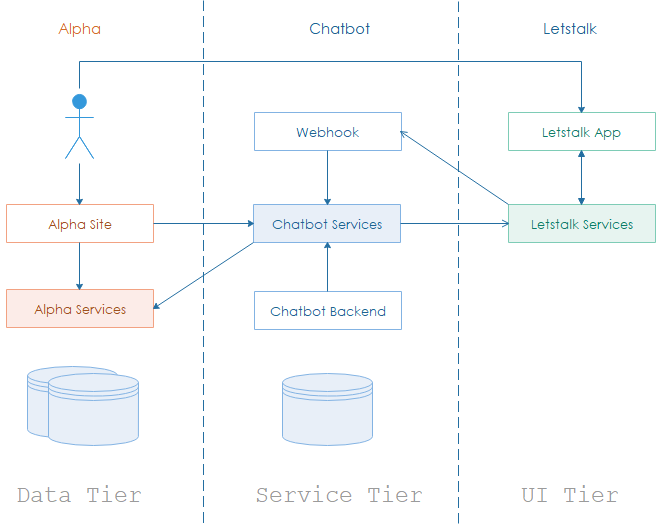
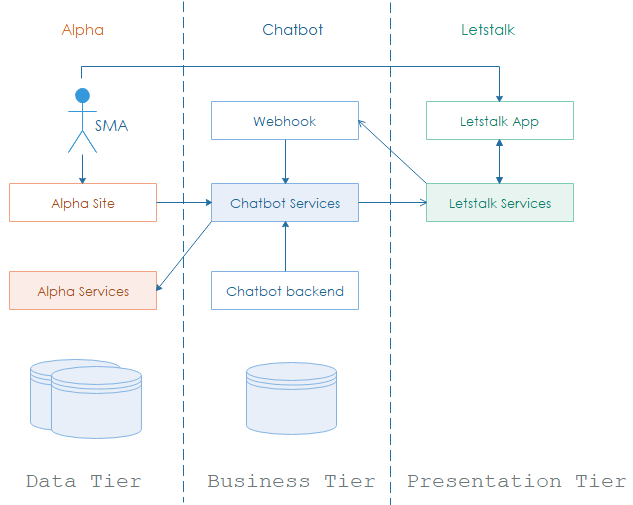
0000 update hld

diff --git a/docs/overview/hld.rst b/docs/overview/hld.rst
@@ -2,8 +2,15 @@
 Introduction
 *********************
 
+From the traditional **n-tier architecture** point of view, system can be devided into three tiers as follows:
 
+    1. **Presentation tier:** Letstalk app, Alpha setup page, and Chatbot backend site.
+    2. **Business tier:** A collection of scalable **micro-services** which perform operations read data (queries) and update data (commands).
+    3. **Data tier:** Alpha service provides SMA's data such as *customer info*, `report`, `balance`, etc.
 
 .. image:: assets/hld.png
+
+.. warning:: The picture above does **NOT** put ``Alpha site`` and ``Chatbot backend`` at the right place. They should belong to Presentation tier.
+
 
 

diff --git a/docs/general-info/purpose.rst b/docs/general-info/purpose.rst
@@ -4,6 +4,6 @@ Purpose
 
 This document provides a description of our technical solution to build up a more secure and more convenient way for SMA to receive up-to-date significant information from the Alpha site via Letstalk channel.
 
-**The main purpose of this document is to capture and convey the vital architecture and design decisions that have been made for this project.**
+**The primary purpose of this document is to capture and convey the vital architecture and design decisions that have been made for this project.**
 
 The document also intends to facilitate technical understanding and thorough communication between the Alpha team and Letstalk team** during integration phase.

diff --git a/docs/overview/use-cases.rst b/docs/overview/use-cases.rst
@@ -4,7 +4,7 @@ System Overview
 System use case diagrams below describe functions that system should peform in colloboration with SMA. 
 
 .. note:: - To get more details about functional specification, please refer to document `Alpha chat bot via Letstalk <ttps://bit.ly/2NtRuHl>`_.
-          - Developers are required to clearly understand all business cases before reading further content.
+          - The use case diagrams are prerequistie knowledge before reading the system technical design.
 
 1. Business Cases of Alpha
 --------------------------

diff --git a/docs/general-info/references.rst b/docs/general-info/references.rst
@@ -2,10 +2,10 @@
 References
 *************
 
-- Chatbot Specification: https://bit.ly/2NtRuHl
+- Chatbot Functional Specification: https://bit.ly/2NtRuHl
 
-- JWT Handbook: https://bit.ly/2Nt51zg
-
-- Colloboration link: http://bit.ly/2KSbXEp
+- Google Sheet Colloboration document: http://bit.ly/2KSbXEp
 
 - Letstalk Business Account System: http://bit.ly/2N1KNva
+
+- JWT Handbook: https://bit.ly/2Nt51zg
